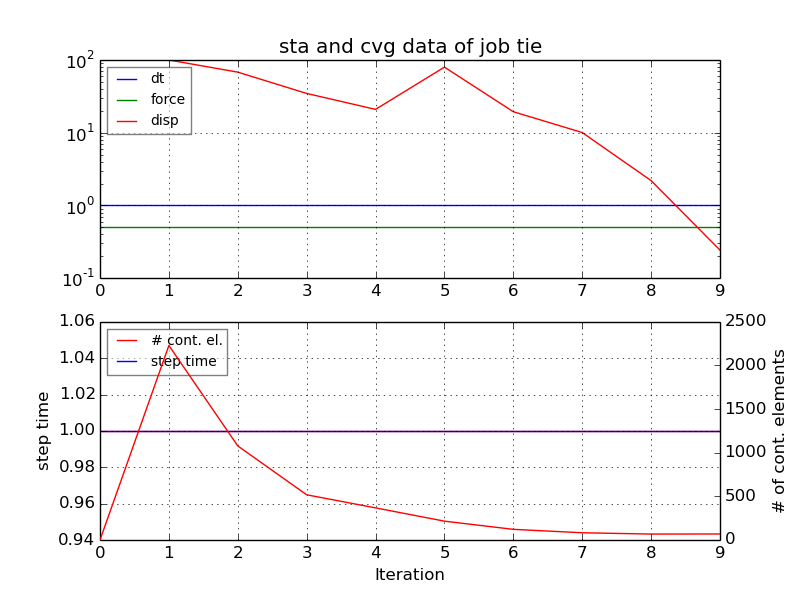
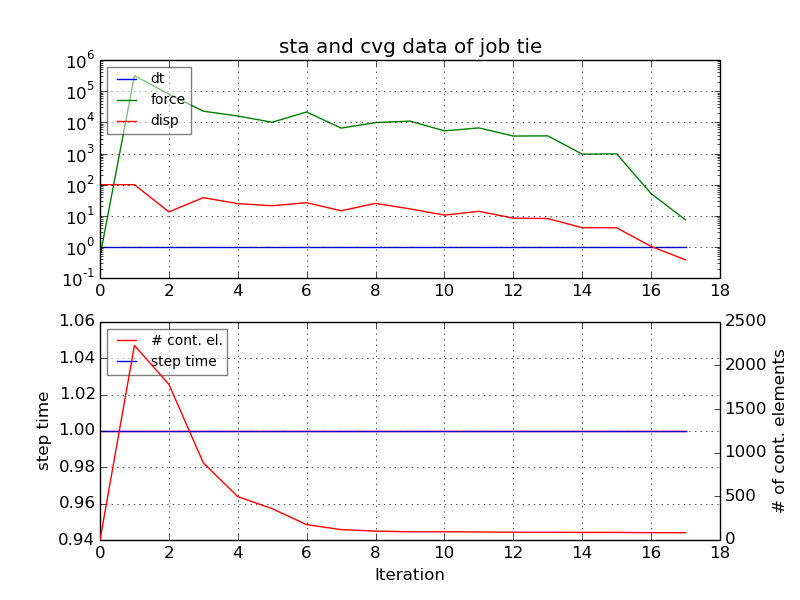
Add Sphinx doc

diff --git a/Contact/Shell1/Shell1.rst b/Contact/Shell1/Shell1.rst
@@ -1,0 +1,218 @@
+Shell assembly with contact
+===========================
+
+**Features**
+
+  + Shell assembly
+  + Edge to face MPC contact
+  + Penalty contact between structure and indenter
+
+**Downloads**
+
+  + `Files on Github <https://github.com/mkraska/CalculiX-Examples/tree/master/Contact/Shell1>`_
+  + :download:`pre.fbd`
+  + :download:`post.fbd`
+  + :download:`tie.inp`
+
+.. toctree::
+  :maxdepth: 2
+
+This example demonstrates the interaction between a minimal honeycomb sandwich structure and an indenter.
+
+.. list-table::
+
+  * - Preprocessing :download:`pre.fbd` ::
+
+        > cgx -b pre.fbd
+
+      The plot shows the shell meshes of the individual bodies, Note that you see the element edges on the negative side of the shell elements because
+      ``view back`` was used.
+
+    - .. image:: Refs/model.png
+        :width: 100%
+
+  * - Solving :download:`tie.inp` ::
+
+        > ccx tie
+        > ,,/,,/Scripts/monitor.py tie
+
+      The solution converges with the default settings in a single step.
+      The convergence plot shows, that the initial penetration creates
+      more than 2000 contact elements, This number then stabilizes at approximately 100 elements.
+
+    - .. image:: tie.png
+        :width: 100%
+  * - Post-processing :download:`post.fbd` ::
+
+        > cgx -b post.fbd
+
+    - \
+  * - Shaded plot of the deformed system
+
+      .. image:: Refs/def.png
+        :width: 100%
+
+    - Plot of the worst principal stress
+
+      .. image:: Refs/worstPS.png
+        :width: 100%
+
+
+
+
+pre.fbd
+-------
+
+.. list-table::
+
+  * - .. literalinclude:: pre.fbd
+        :start-after: # parameters
+        :end-before: # core
+    - :rc: width of the core sheets
+      :tc: thickness of the core sheets
+      :hc: height of the core
+      :ls: length of the skin sheets
+      :ri: radius of the indenter
+      :xi: excentricity of the indenter
+      :ts: thickness of the skin sheets
+  * - .. literalinclude:: pre.fbd
+        :start-after: # core
+        :end-before: # skin
+    - The core consists of three vertical plates, which are connected in the
+      center.
+
+      Point ``p0`` at the origin is swept in x direction, the resulting line
+      is copied and rotated by :math:`\pm` 120°.
+
+      These three lines for the set ``c_bottom``, which we later use for contact definition.
+
+      The lines are swept in z direction, the copy of the generating set is named ``c_top`` and also later used for contact.
+
+      The resulting structure is stored in set ``core`` for later material and thickness assignment.
+  * - .. literalinclude:: pre.fbd
+        :start-after: # skin
+        :end-before: # edges
+    - The bottom skin sheet (set ``bottom``) is created from corner point
+      ``ps1``  by sweep in negative x and y directions.
+
+      The top skin (set ``top``) is created as a translated copy of the bottom skin.
+
+      Both skins have their positive sides down, therefore we flip the bottom skin to make both skins face the core.
+  * - .. literalinclude:: pre.fbd
+        :start-after: # edges
+        :end-before: # indenter
+    - Generate sets for the edges of the skins.
+      These are used later for displacement constraints. The ``comp`` commands are required to include the corner points in the sets.
+  * - .. literalinclude:: pre.fbd
+        :start-after: # indenter
+        :end-before: # positioning
+    - Generate the hemisherical indenter.
+
+      First we define a quarter of the hemisphere by explicitly specifying
+      points, lines and the surface. Note, that the resulting surface is only roughly spherical. In the given case this does not matter.
+
+      The hemisphere is generated by two successive copy commands. The duplicate nodes are removed by the merg command.
+  * - .. literalinclude:: pre.fbd
+        :start-after: # positioning
+        :end-before: # meshing
+    - Place the indenter into starting position.
+      We first have to adjust the orientation, then we move the indenter to just touch the top face of the top skin (account for the invisible shell thickness). Last we move the indenter to a slightly excentric position.
+  * - .. literalinclude:: pre.fbd
+          :start-after: # meshing
+          :end-before: # surfaces
+    - Increase the default division of the lines
+
+      Mesh with ``qu8``, these are written as ``S8R`` elements.
+
+      Write the mesh and all set definitions. We don't need all but don't want to send them individually.
+  * - .. literalinclude:: pre.fbd
+          :start-after: # surfaces
+          :end-before: # image
+    - Write the surface definitions, required for contact definition.
+
+      A separate set for the negative side of the top skin is required, because the file name does not account for the - sign and both sides would be written to the same file.
+  * - .. literalinclude:: pre.fbd
+          :start-after: # image
+    - Create a representative view of the geometry. The element edges are visible on the negative side of the surfaces.
+
+      .. image:: Refs/model.png
+        :width: 30%
+
+
+tie.inp
+-------
+
+.. list-table::
+
+  * - .. literalinclude:: tie.inp
+        :start-after: ** includes
+        :end-before: ** constraints
+    - Include the files generated by CGX
+  * - .. literalinclude:: tie.inp
+        :start-after: ** constraints
+        :end-before: ** material
+    - Constrain the displacement of the edge of the bottom skin and of the
+      indenter
+  * - .. literalinclude:: tie.inp
+        :start-after: ** material
+        :end-before: ** sections
+    - Define the material Aluminium with Young's modulus and Poisson's ratio.
+      The density is provided for eventual modal analysis.
+  * - .. literalinclude:: tie.inp
+        :start-after: ** sections
+        :end-before: ** ties
+    - Assign material and thickness to the shell element sets.
+      An offset of 0.5 times the thickness is applied, this shifts the reference surface to the positive side.
+  * - .. literalinclude:: tie.inp
+        :start-after: ** ties
+        :end-before: ** penalty
+    - Define MPC contact between the core and the skin sheets.
+  * - .. literalinclude:: tie.inp
+        :start-after: ** penalty
+        :end-before: ** step
+    - Define penalty contact between the top skin and the indenter.
+  * - .. literalinclude:: tie.inp
+        :start-after: ** step
+        :end-before: ** load
+    - Start a non-inear static step with default time stepping settings
+  * - .. literalinclude:: tie.inp
+        :start-after: ** load
+        :end-before: ** output
+    - Move the indenter 2 mm down.
+  * - .. literalinclude:: tie.inp
+        :start-after: ** output
+        :end-before: ** endstep
+    - Request output of the displacements (U) and the stresses (S) to the frd-file.
+  * - .. literalinclude:: tie.inp
+        :start-after: ** endstep
+    - End of the step
+
+
+post.fbd
+--------
+
+.. list-table::
+
+  * - .. literalinclude:: post.fbd
+        :start-after: # read
+        :end-before: # view
+    - Read the results (frd) and the input file (for the set definitions)
+  * - .. literalinclude:: post.fbd
+        :start-after: # view
+        :end-before: # def
+    - Switch on the deformed geometry and element edges.
+
+      Adjust the view orientation
+  * - .. literalinclude:: post.fbd
+        :start-after: # def
+        :end-before: # color
+    - Shaded displacement plot
+
+      .. image:: Refs/def.png
+        :width: 30%
+  * - .. literalinclude:: post.fbd
+        :start-after: # color
+    - Plot of the worst principal stress
+
+      .. image:: Refs/worstPS.png
+        :width: 30%
